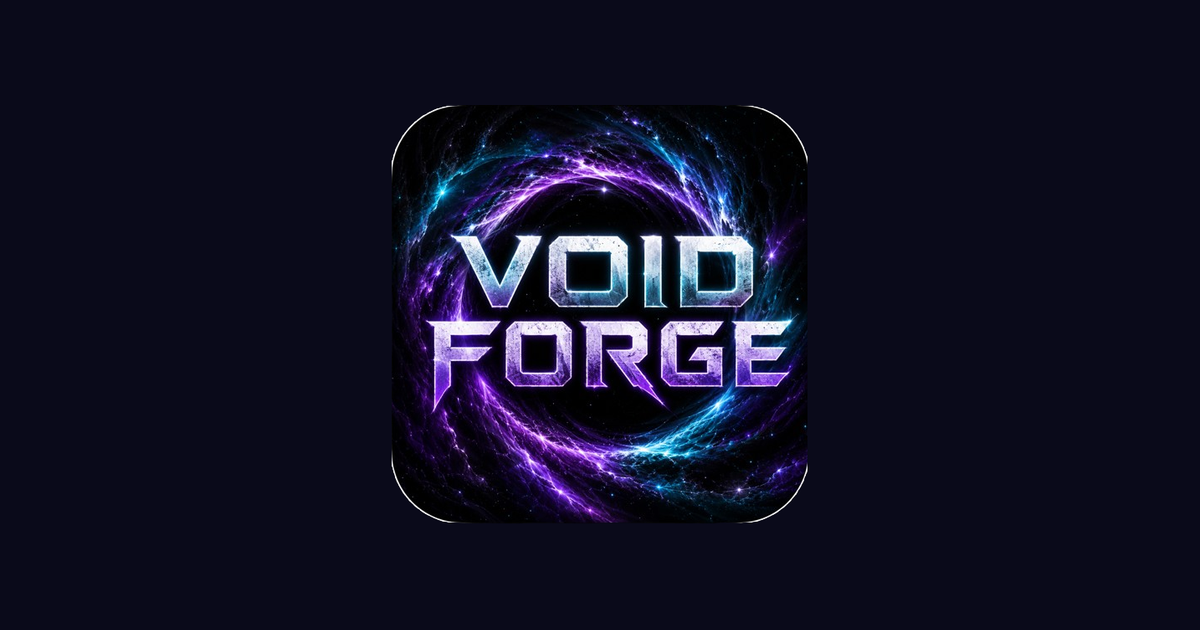
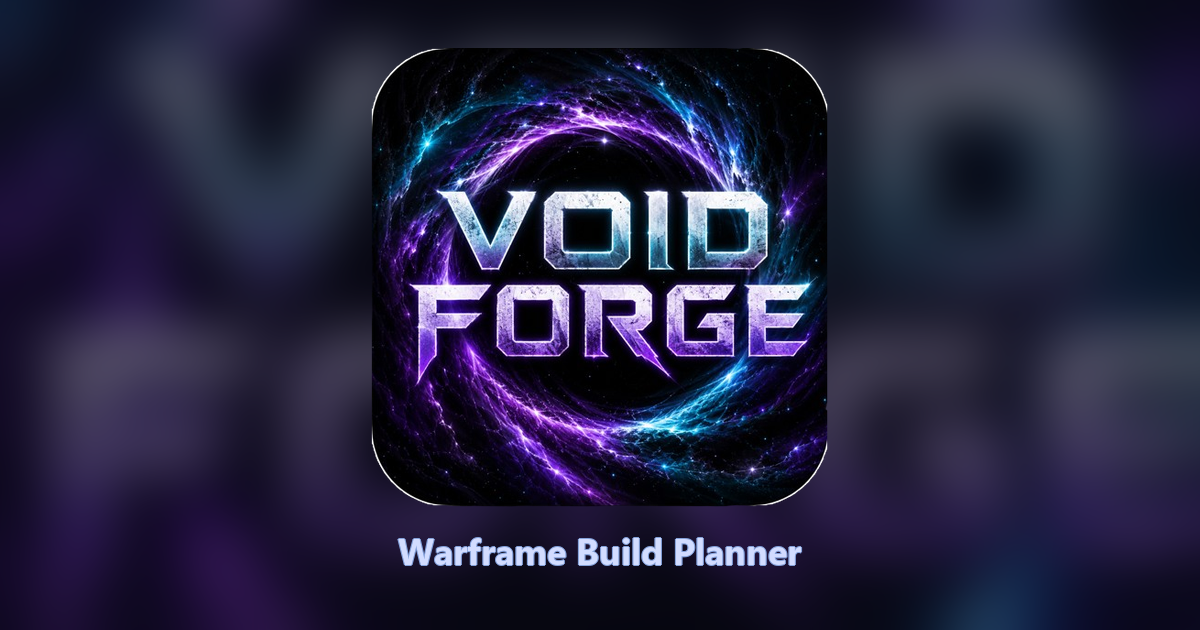
Improve Discord/Twitter OG card with nebula fill and tagline.
Replace the sparse centered icon with a landscape social preview so embeds read as Voidforge, not empty dark space.

diff --git a/src/app/layout.tsx b/src/app/layout.tsx
@@ -25,7 +25,7 @@ const geistMono = Geist_Mono({
 const siteUrl = getSiteUrl();
 const defaultTitle = `${SITE_NAME} - ${SITE_TAGLINE}`;
 /** Bump when replacing the social preview image so Discord/Twitter re-scrape. */
-const OG_IMAGE_VERSION = "6";
+const OG_IMAGE_VERSION = "7";
 const ogImageUrl = `/og-embed.png?v=${OG_IMAGE_VERSION}`;
 
 export const metadata: Metadata = {

diff --git a/public/sw.js b/public/sw.js
@@ -1,7 +1,7 @@
 /// Voidforge Service Worker
-/// v14: Voidforge square icons preserve rounded-corner alpha.
+/// v15: Richer Discord/Twitter OG card + rounded square icons.
 
-const CACHE_NAME = "voidforge-v14";
+const CACHE_NAME = "voidforge-v15";
 
 const PRECACHE_URLS = [
   "/icons/icon-192x192.png",

diff --git a/scripts/_gen_voidforge_icons.py b/scripts/_gen_voidforge_icons.py
@@ -117,11 +117,63 @@ ico_images[0].save(
 )
 print("wrote favicon.ico", ico_path.stat().st_size)
 
-og = Image.new("RGBA", (1200, 630), bg)
-icon_og = resize(opaque_master, 420)
-ox = (1200 - icon_og.size[0]) // 2
-oy = (630 - icon_og.size[1]) // 2
+# Discord/Twitter OG: landscape card with nebula fill (not a lonely icon on black).
+W, H = 1200, 630
+og = Image.new("RGBA", (W, H), bg)
+
+# Soft full-bleed backdrop from a heavily blurred, cover-scaled copy of the art.
+cover = opaque_master.copy()
+scale = max(W / cover.size[0], H / cover.size[1]) * 1.15
+cw, ch = int(cover.size[0] * scale), int(cover.size[1] * scale)
+cover = cover.resize((cw, ch), Image.Resampling.LANCZOS)
+left = (cw - W) // 2
+top = (ch - H) // 2
+cover = cover.crop((left, top, left + W, top + H))
+try:
+    from PIL import ImageFilter
+
+    cover = cover.filter(ImageFilter.GaussianBlur(radius=28))
+except Exception:
+    pass
+# Darken so the sharp icon reads on top
+dim = Image.new("RGBA", (W, H), (10, 10, 26, 160))
+og.alpha_composite(cover)
+og.alpha_composite(dim)
+
+# Primary mark — larger, slightly above center
+icon_og = rounded_square_icon(squared, 460)
+ox = (W - icon_og.size[0]) // 2
+oy = 48
 og.alpha_composite(icon_og, (ox, oy))
+
+# Tagline under the mark
+try:
+    from PIL import ImageFont
+
+    draw = ImageDraw.Draw(og)
+    tagline = "Warframe Build Planner"
+    font = None
+    for cand in (
+        "C:/Windows/Fonts/segoeuib.ttf",
+        "C:/Windows/Fonts/arialbd.ttf",
+        "C:/Windows/Fonts/arial.ttf",
+    ):
+        if Path(cand).exists():
+            font = ImageFont.truetype(cand, 36)
+            break
+    if font is None:
+        font = ImageFont.load_default()
+    bbox = draw.textbbox((0, 0), tagline, font=font)
+    tw, th = bbox[2] - bbox[0], bbox[3] - bbox[1]
+    tx = (W - tw) // 2
+    ty = oy + icon_og.size[1] + 18
+    # Soft glow
+    for dx, dy in ((-1, 0), (1, 0), (0, -1), (0, 1)):
+        draw.text((tx + dx, ty + dy), tagline, font=font, fill=(80, 120, 200, 180))
+    draw.text((tx, ty), tagline, font=font, fill=(210, 220, 255, 255))
+except Exception as e:
+    print("og tagline skipped:", e)
+
 og_path = public / "og-embed.png"
 og.save(og_path, "PNG", optimize=True)
 print("wrote og-embed.png", og.size, og_path.stat().st_size)
